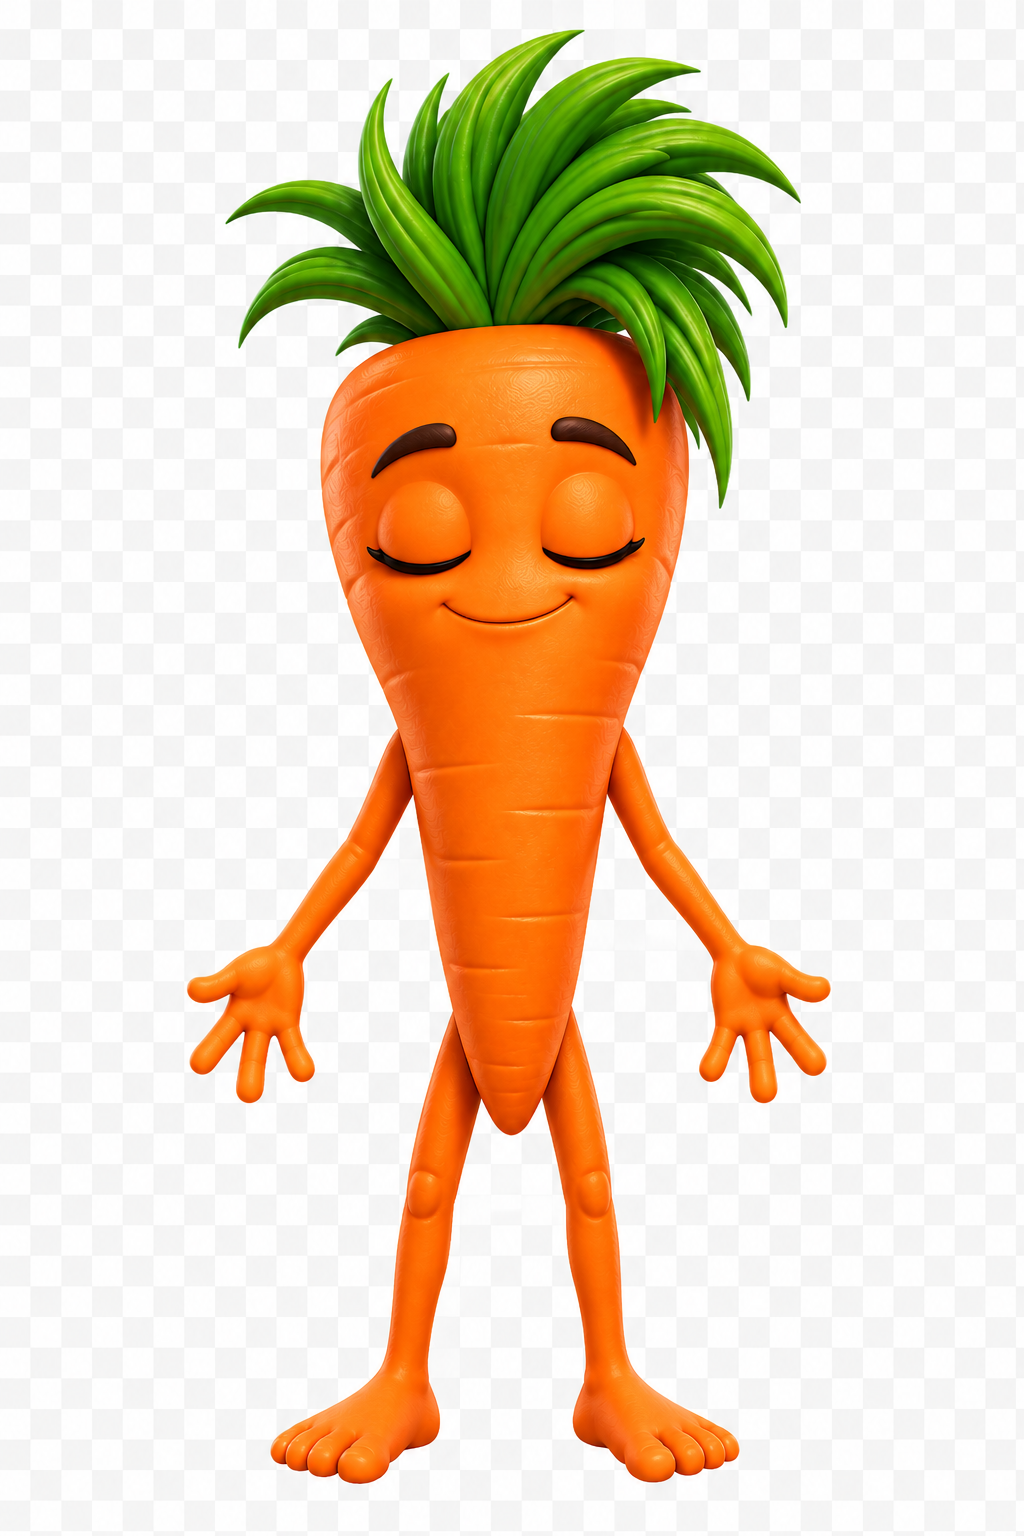
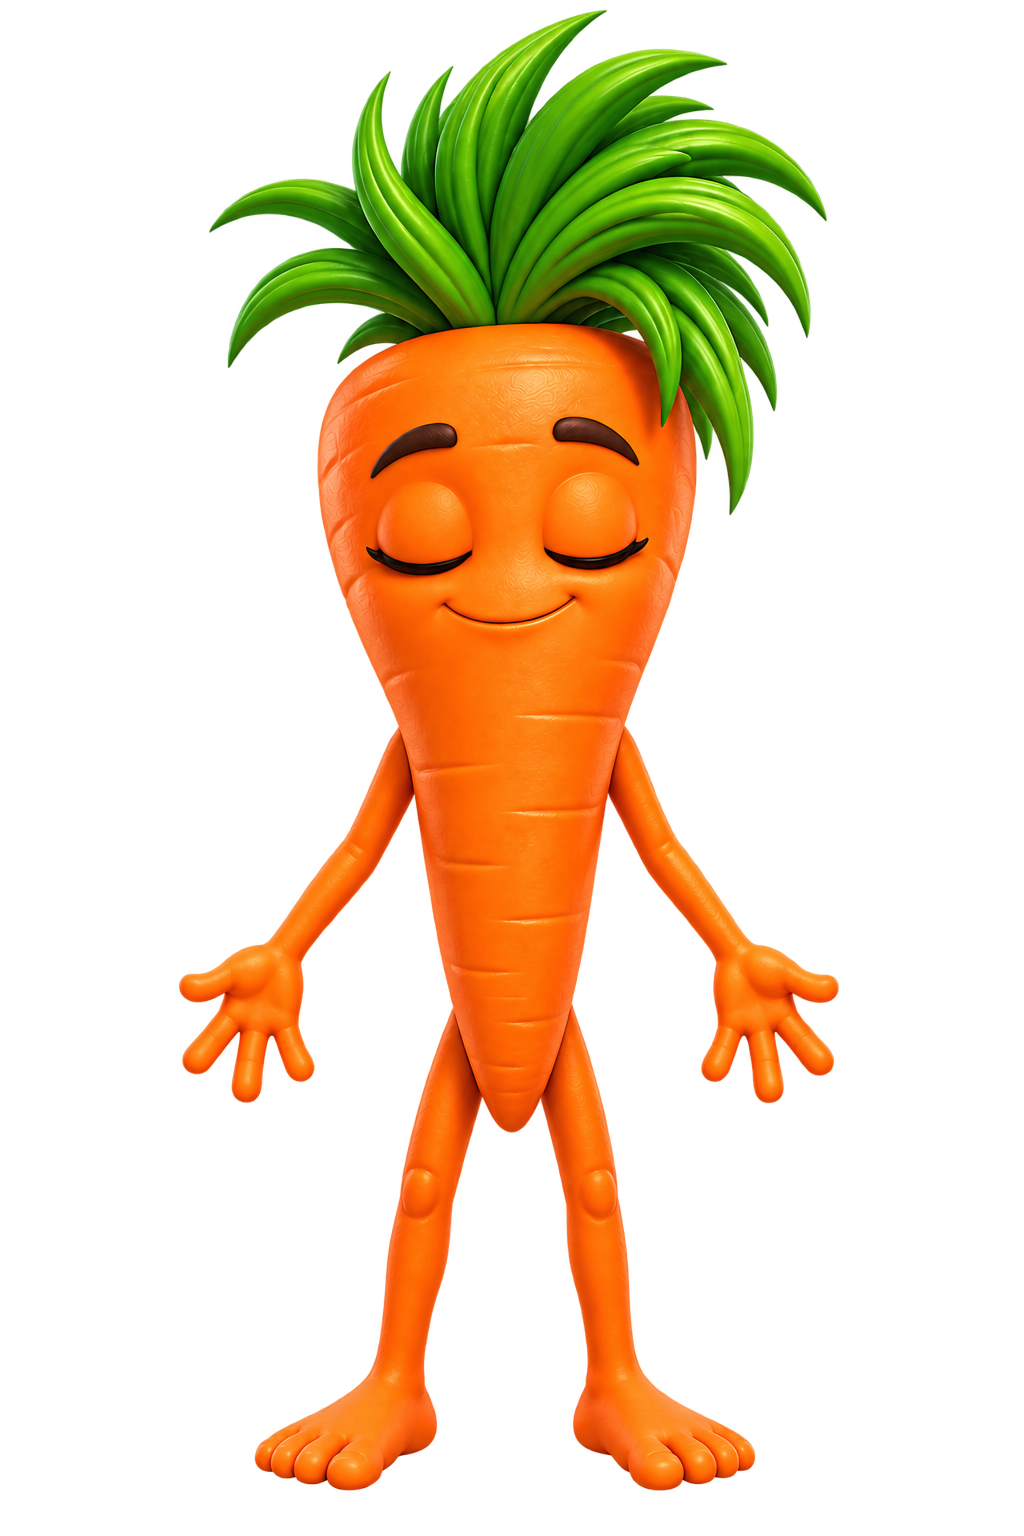
pet new4

diff --git a/index.html b/index.html
@@ -21,6 +21,6 @@
   <button data-v="puntos"><span class="ico">🏆</span>Puntos</button>
 </nav>
 
-<script src="app.js?v=9"></script>
+<script src="app.js?v=10"></script>
 </body>
 </html>
